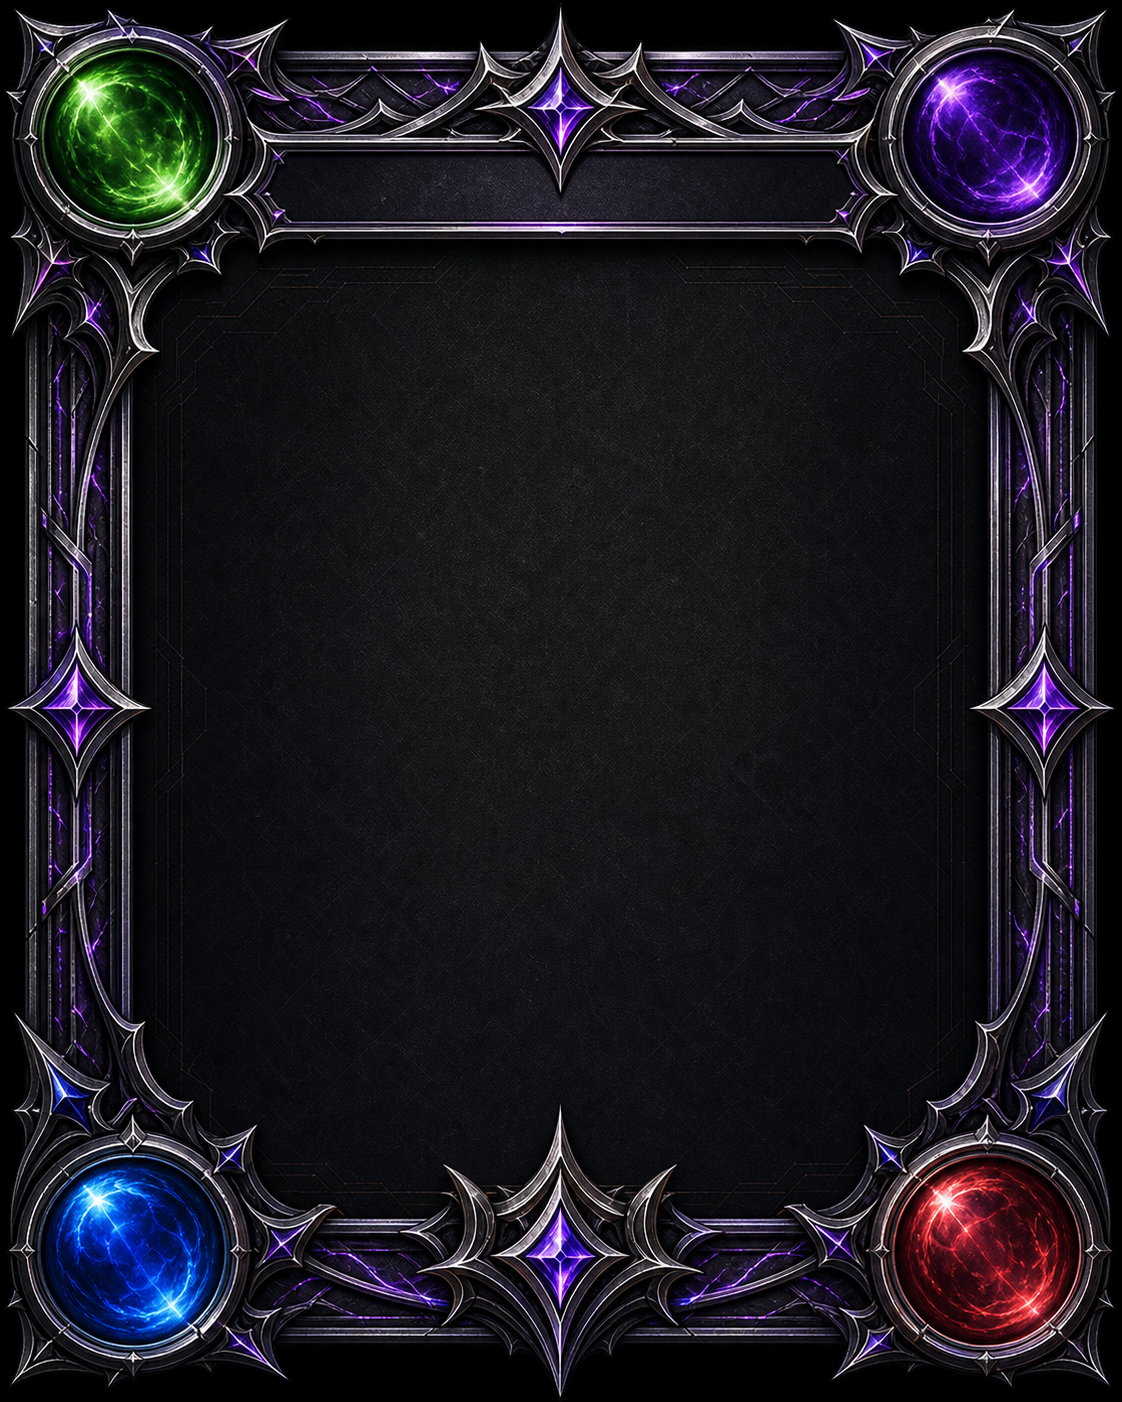
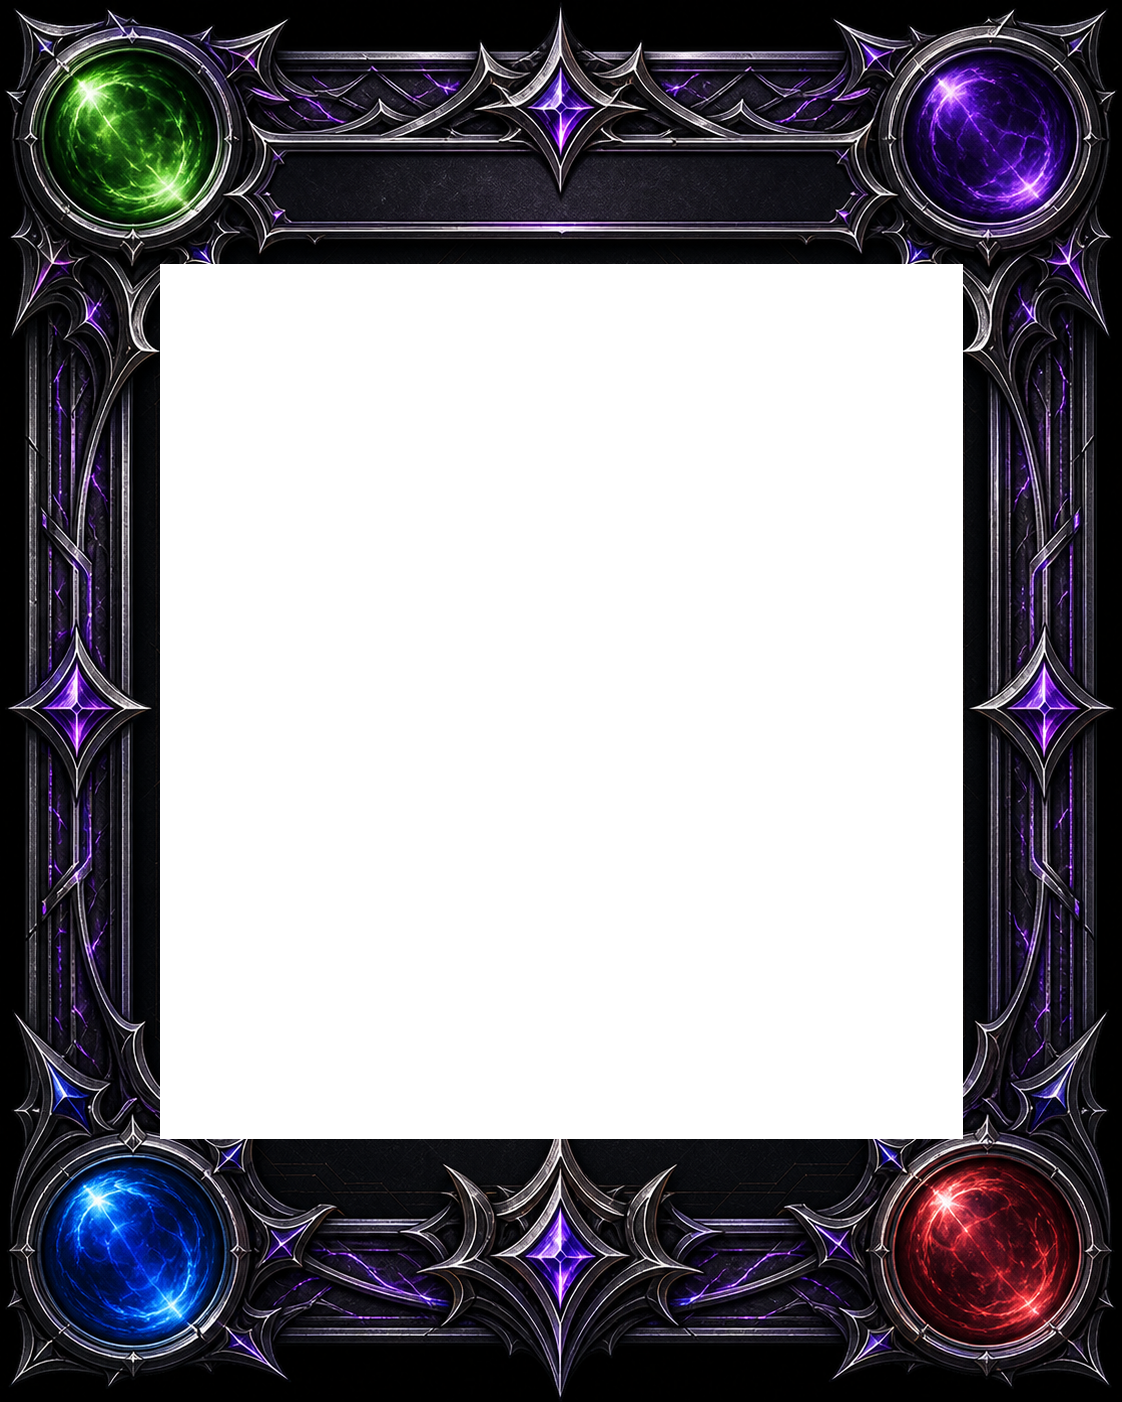
Overlay card frame above art

diff --git a/styles.css b/styles.css
@@ -7160,26 +7160,84 @@ select {
 .preview-card,
 .library-card,
 .focus-mini-card {
+  border: 0 !important;
   overflow: visible;
+}
+
+.game-card:not(.facedown),
+.tcg-card:not(.facedown),
+.preview-card:not(.facedown),
+.library-card:not(.facedown),
+.focus-mini-card:not(.facedown) {
+  background: linear-gradient(180deg, #11171e, #05080c) !important;
+}
+
+.tcg-card.facedown,
+.focus-mini-card.facedown,
+.card-zoom-facedown {
+  border: 2px solid rgba(112, 223, 230, 0.42) !important;
+  background:
+    linear-gradient(180deg, rgba(5, 8, 12, 0.02), rgba(5, 8, 12, 0.18)),
+    url("assets/cards/card-back.png"),
+    #141a22 !important;
+  background-size: cover !important;
+  background-position: center !important;
 }
 
 .game-card .card-face,
 .game-card.finish-royal .card-face {
+  position: absolute !important;
+  inset: 0 !important;
+  isolation: isolate;
   overflow: visible !important;
+}
+
+.game-card::after {
+  content: none !important;
+  display: none !important;
+}
+
+.game-card .card-face::before {
+  content: "";
+  position: absolute;
+  inset: 0;
+  z-index: 18;
+  pointer-events: none;
+  background: var(--card-frame-image) center / 100% 100% no-repeat;
 }
 
 .game-card .card-art,
 .game-card .card-face .card-art {
-  left: 13.6%;
-  top: 18.5%;
-  width: 72.8%;
-  height: 63.8%;
+  z-index: 4;
+  left: 13%;
+  top: 18%;
+  width: 74%;
+  height: 64%;
+  border-radius: 0;
+  box-shadow: none;
   overflow: hidden;
+}
+
+.game-card .card-mini-top,
+.game-card .card-face .card-mini-top {
+  z-index: 24;
+  left: 19%;
+  right: 19%;
+  top: 7.3%;
+  min-height: 7.4%;
+  place-items: center start;
+}
+
+.game-card .card-name,
+.game-card .card-face .card-name {
+  padding-left: 0;
+  transform: none;
+  text-align: left;
 }
 
 .game-card .card-stat-chip {
   z-index: 30;
-  width: 18%;
+  width: 18.5%;
   border: 0;
   border-radius: 0;
   background: none !important;
@@ -7193,78 +7251,78 @@ select {
 }
 
 .card-cost-chip {
-  left: 0.8%;
-  top: 0.9%;
+  left: 0.7%;
+  top: 1.5%;
 }
 
 .card-drive-chip {
-  right: 0.8%;
-  top: 0.9%;
+  right: 0.7%;
+  top: 1.5%;
 }
 
 .card-attack-chip {
-  left: 0.8%;
-  bottom: 0.9%;
+  left: 0.7%;
+  bottom: 1.5%;
 }
 
 .card-durability-chip {
-  right: 0.8%;
-  bottom: 0.9%;
+  right: 0.7%;
+  bottom: 1.5%;
 }
 
 .tcg-card.small .card-stat-chip,
 .library-card .card-stat-chip {
-  width: 18%;
+  width: 18.5%;
   font-size: calc(var(--new-card-chip-size, 12px) + 1px);
 }
 
 .preview-card .card-stat-chip,
 .focus-mini-card .card-stat-chip {
-  width: 18%;
+  width: 18.5%;
 }
 
 .type-spell .card-drive-chip,
 .type-core .card-drive-chip {
-  right: 0.8%;
-  top: 0.9%;
+  right: 0.7%;
+  top: 1.5%;
 }
 
 .type-core .card-durability-chip {
-  right: 0.8%;
-  bottom: 0.9%;
+  right: 0.7%;
+  bottom: 1.5%;
 }
 
 .hand-zone .tcg-card .card-stat-chip {
-  width: 18%;
+  width: 18.5%;
   font-size: calc(var(--new-card-chip-size, 12px) + 1px);
 }
 
 .hand-zone .tcg-card .card-cost-chip {
-  left: 0.8%;
+  left: 0.7%;
   right: auto;
-  top: 0.9%;
+  top: 1.5%;
   bottom: auto;
 }
 
 .hand-zone .tcg-card .card-drive-chip {
   left: auto;
-  right: 0.8%;
-  top: 0.9%;
+  right: 0.7%;
+  top: 1.5%;
   bottom: auto;
 }
 
 .hand-zone .tcg-card .card-attack-chip {
-  left: 0.8%;
+  left: 0.7%;
   right: auto;
   top: auto;
-  bottom: 0.9%;
+  bottom: 1.5%;
 }
 
 .hand-zone .tcg-card .card-durability-chip {
   left: auto;
-  right: 0.8%;
+  right: 0.7%;
   top: auto;
-  bottom: 0.9%;
+  bottom: 1.5%;
 }
 
 /* Deck editor: keep thumbnails in 3 columns while the frame sockets carry the color. */
@@ -7293,27 +7351,27 @@ select {
 }
 
 .builder-view .library-card .card-stat-chip {
-  width: 18%;
+  width: 18.5%;
 }
 
 .builder-view .library-card .card-cost-chip {
-  left: 0.8%;
-  top: 0.9%;
+  left: 0.7%;
+  top: 1.5%;
 }
 
 .builder-view .library-card .card-drive-chip {
-  right: 0.8%;
-  top: 0.9%;
+  right: 0.7%;
+  top: 1.5%;
 }
 
 .builder-view .library-card .card-attack-chip {
-  left: 0.8%;
-  bottom: 0.9%;
+  left: 0.7%;
+  bottom: 1.5%;
 }
 
 .builder-view .library-card .card-durability-chip {
-  right: 0.8%;
-  bottom: 0.9%;
+  right: 0.7%;
+  bottom: 1.5%;
 }
 
 .preview-panel {

diff --git a/index.html b/index.html
@@ -12,7 +12,7 @@
     <link rel="manifest" href="manifest.webmanifest">
     <link rel="icon" type="image/png" sizes="192x192" href="assets/icons/icon-192.png">
     <link rel="apple-touch-icon" sizes="180x180" href="assets/icons/icon-180.png">
-    <link rel="stylesheet" href="styles.css?v=20260601socketframe">
+    <link rel="stylesheet" href="styles.css?v=20260601frameoverlay">
     <script defer src="src/data/cards.js?v=20260601newrulesui4"></script>
     <script defer src="src/data/notices.js?v=20260601newrules"></script>
     <script defer src="src/core/deck-store.js?v=20260601newrules"></script>

diff --git a/sw.js b/sw.js
@@ -1,11 +1,11 @@
-const CACHE_VERSION = "chrono-drive-pwa-20260601-socket-frame";
+const CACHE_VERSION = "chrono-drive-pwa-20260601-frame-overlay";
 const APP_SHELL_CACHE = `${CACHE_VERSION}-shell`;
 const RUNTIME_CACHE = `${CACHE_VERSION}-runtime`;
 
 const APP_SHELL_URLS = [
   "/",
   "/index.html",
-  "/styles.css?v=20260601socketframe",
+  "/styles.css?v=20260601frameoverlay",
   "/manifest.webmanifest",
   "/assets/icons/icon-192.png",
   "/assets/icons/icon-512.png",
